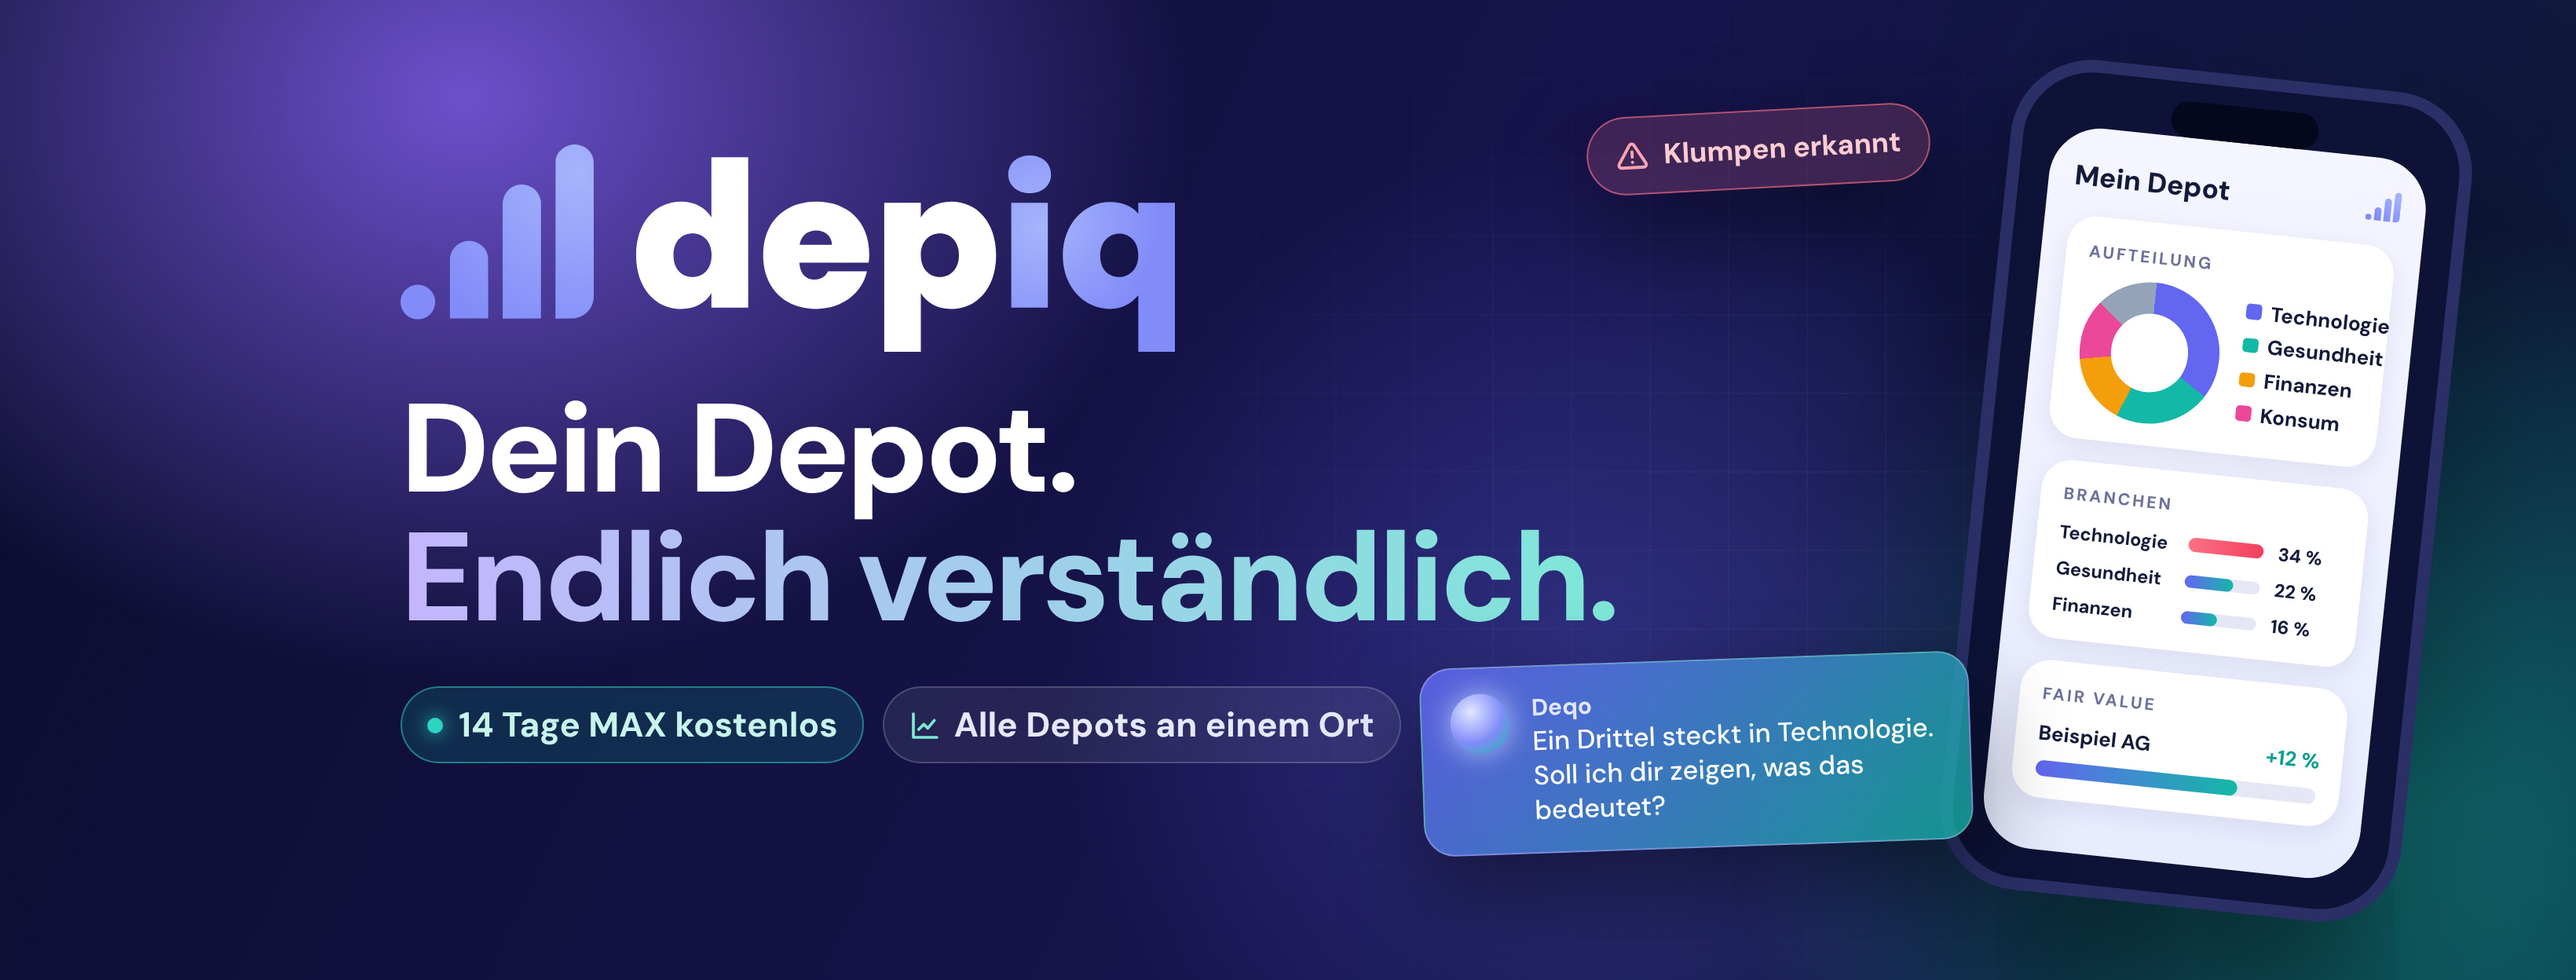
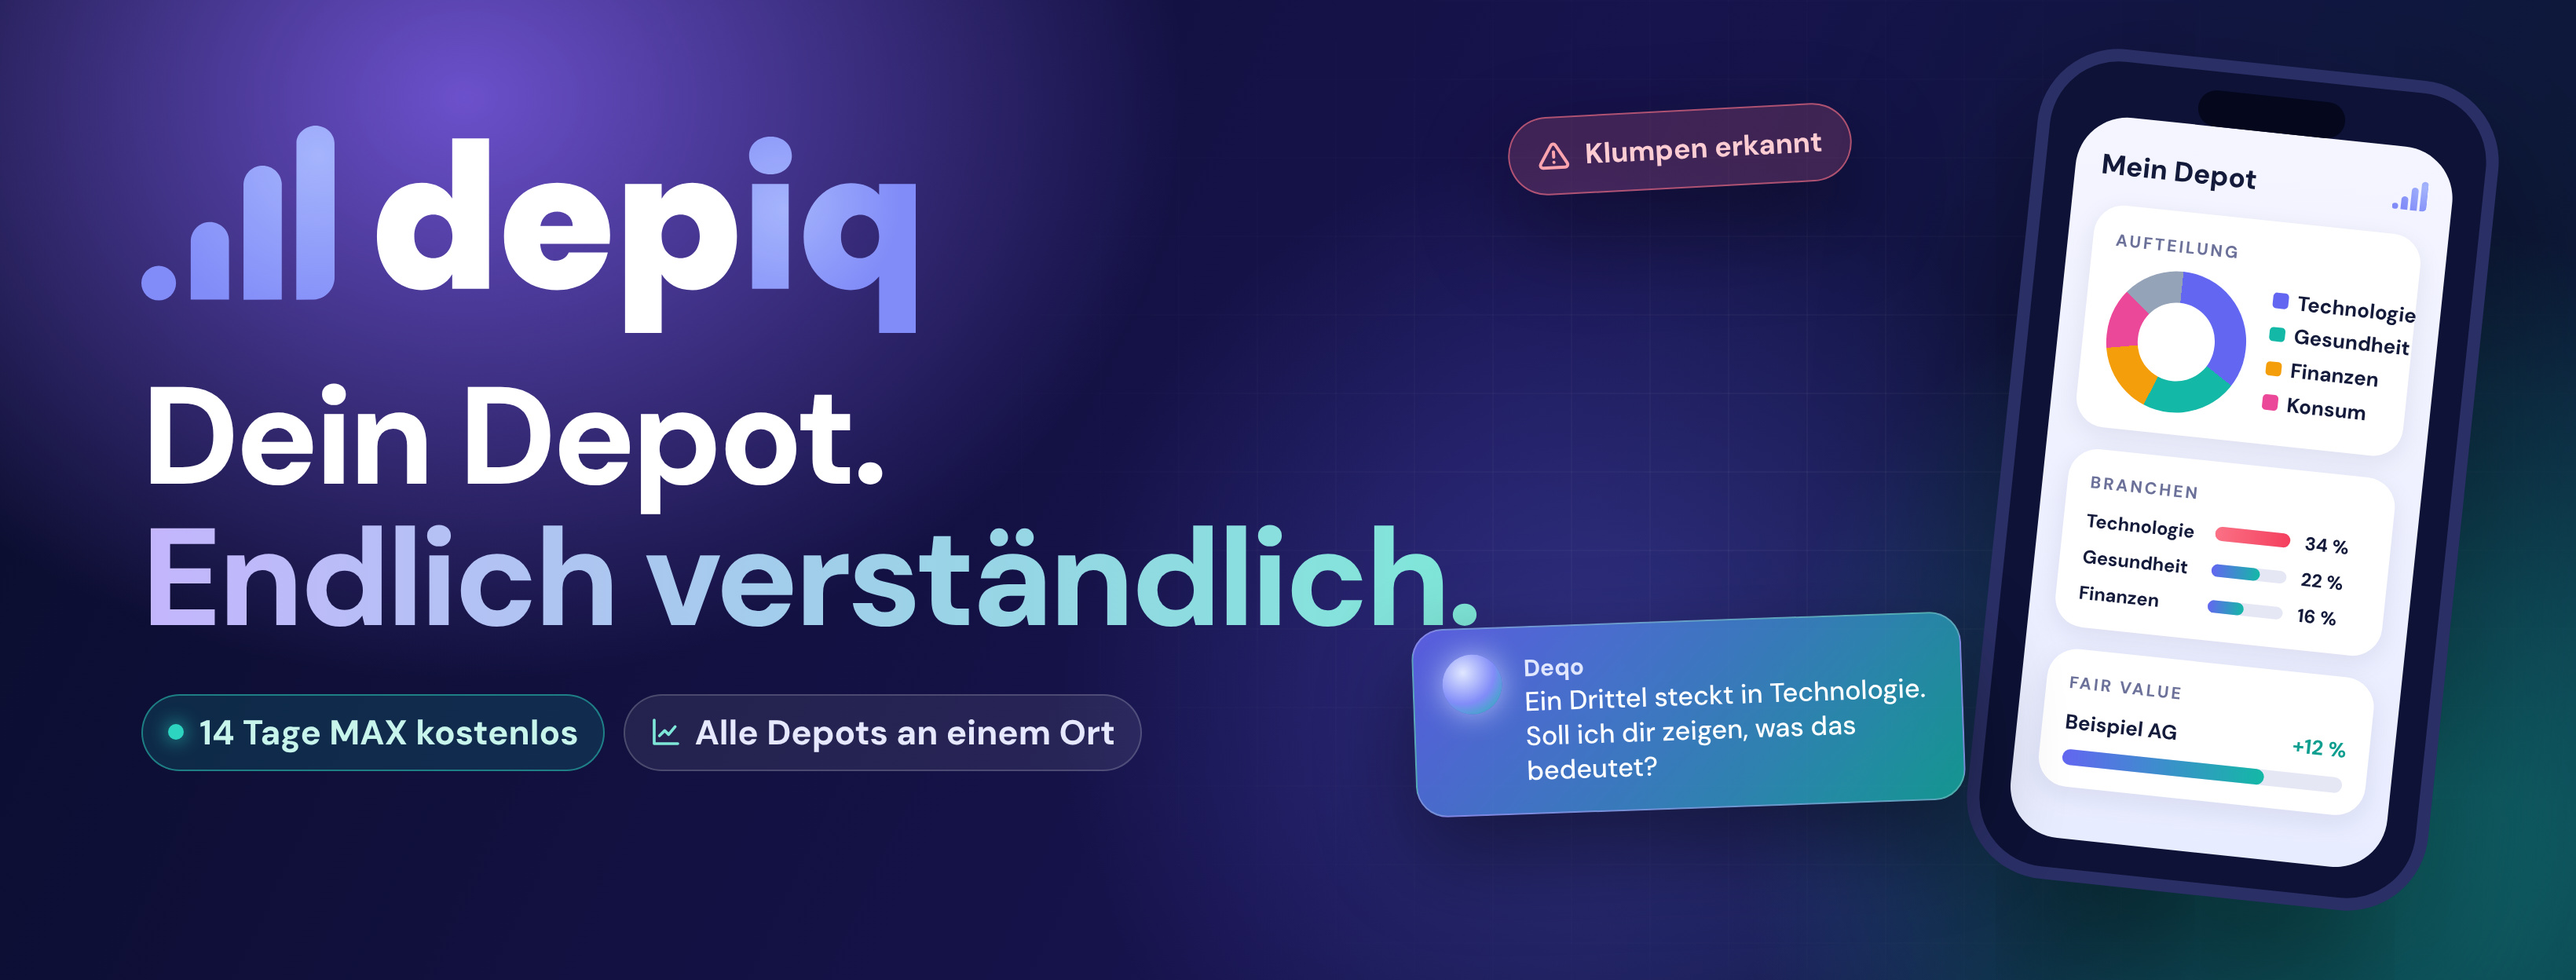
Facebook-Titelbild: Text an den linken Rand, Handy rechts
Claude-Session: https://claude.ai/code/session_01TCMRwfkoPUXt6cdHJjM9Lg

Changed region(s): [[0.0311, 0.0312, 0.9951, 0.9375], [0.0311, 0.125, 0.4665, 0.375], [0.5598, 0.0938, 0.7463, 0.2188]]

diff --git a/vorlage/fb-titelbild.html b/vorlage/fb-titelbild.html
@@ -16,15 +16,15 @@ em{font-style:normal;background:linear-gradient(90deg,#c4b5fd,#7ee7d8);-webkit-b
  radial-gradient(ellipse 35% 90% at 92% 85%, rgba(20,184,166,.55), transparent 70%),
  linear-gradient(115deg,#0a0d2c,#17134d 55%,#0a1c33)}
 .raster{position:absolute;inset:0;background-image:linear-gradient(rgba(255,255,255,.035) 1px,transparent 1px),linear-gradient(90deg,rgba(255,255,255,.035) 1px,transparent 1px);background-size:50px 50px;mask-image:radial-gradient(ellipse 50% 90% at 70% 50%,#000,transparent 75%)}
-.links{position:absolute;left:255px;top:92px}
+.links{position:absolute;left:90px;top:80px}
 .logo{height:132px;display:block}
-h1{font-size:80px;line-height:1.02;font-weight:800;letter-spacing:-.03em;margin:22px 0 28px;white-space:nowrap}
+h1{font-size:88px;line-height:1.02;font-weight:800;letter-spacing:-.03em;margin:22px 0 28px;white-space:nowrap}
 .chips{display:flex;gap:12px}
 .chip{display:inline-flex;align-items:center;gap:8px;font-size:22px;font-weight:700;padding:9px 16px;border-radius:999px;background:rgba(255,255,255,.08);border:1.5px solid rgba(255,255,255,.18);color:#e6e8ff}
 .chip svg{width:20px;height:20px}
 .live{display:inline-flex;align-items:center;gap:10px;font-size:22px;font-weight:700;color:#c7f5ec;padding:9px 16px;border-radius:999px;background:rgba(20,184,166,.16);border:1.5px solid rgba(45,212,191,.5)}
 .live i{width:10px;height:10px;border-radius:50%;background:#2dd4bf;box-shadow:0 0 12px #2dd4bf}
-.handy{position:absolute;left:1065px;top:40px;width:250px;height:450px;border-radius:44px;background:#0d1236;border:7px solid #2a2f66;box-shadow:0 40px 90px rgba(0,0,0,.6);padding:30px 16px 16px;transform:rotate(6deg);zoom:1.18}
+.handy{position:absolute;left:1080px;top:34px;width:250px;height:450px;border-radius:44px;background:#0d1236;border:7px solid #2a2f66;box-shadow:0 40px 90px rgba(0,0,0,.6);padding:30px 16px 16px;transform:rotate(6deg);zoom:1.18}
 .notch{position:absolute;top:10px;left:50%;transform:translateX(-50%);width:80px;height:20px;border-radius:20px;background:#05071c}
 .screen{height:100%;border-radius:28px;background:linear-gradient(180deg,#f4f5ff,#e8ecff);color:#141a3a;padding:16px 14px;display:flex;flex-direction:column;gap:12px}
 .screen .t{font-size:15px;font-weight:800;display:flex;justify-content:space-between;align-items:center}
@@ -42,8 +42,8 @@ h1{font-size:80px;line-height:1.02;font-weight:800;letter-spacing:-.03em;margin:
 .zeile .s{height:7px;border-radius:9px;background:#e5e7f5}.zeile .s b{display:block;height:100%;border-radius:9px;background:linear-gradient(90deg,#6366f1,#14b8a6)}
 .zeile .s b.rot{background:linear-gradient(90deg,#fb7185,#f43f5e)}
 .schwebe{position:absolute;z-index:5;border-radius:20px;box-shadow:0 24px 60px rgba(0,0,0,.45)}
-.warn{left:1010px;top:70px;padding:12px 18px;font-size:18px;font-weight:700;display:flex;gap:10px;align-items:center;background:rgba(251,113,133,.18);border:1.5px solid rgba(251,113,133,.6);color:#fecdd3;border-radius:999px;transform:rotate(-3deg)}
-.deqo{left:905px;top:420px;width:350px;padding:16px 18px;display:flex;gap:14px;align-items:flex-start;background:linear-gradient(135deg,rgba(99,102,241,.85),rgba(20,184,166,.75));border:1.5px solid rgba(255,255,255,.25);transform:rotate(-2deg)}
+.warn{left:960px;top:70px;padding:12px 18px;font-size:18px;font-weight:700;display:flex;gap:10px;align-items:center;background:rgba(251,113,133,.18);border:1.5px solid rgba(251,113,133,.6);color:#fecdd3;border-radius:999px;transform:rotate(-3deg)}
+.deqo{left:900px;top:395px;width:350px;padding:16px 18px;display:flex;gap:14px;align-items:flex-start;background:linear-gradient(135deg,rgba(99,102,241,.85),rgba(20,184,166,.75));border:1.5px solid rgba(255,255,255,.25);transform:rotate(-2deg)}
 .orb{flex:none;width:38px;height:38px;border-radius:50%;background:radial-gradient(circle at 35% 30%,#e0e7ff,#818cf8 55%,#14b8a6);box-shadow:0 0 18px rgba(199,210,254,.8)}
 .deqo b{display:block;font-size:15px;color:#e0e7ff}
 .deqo span{font-size:17px;font-weight:500;line-height:1.3}
